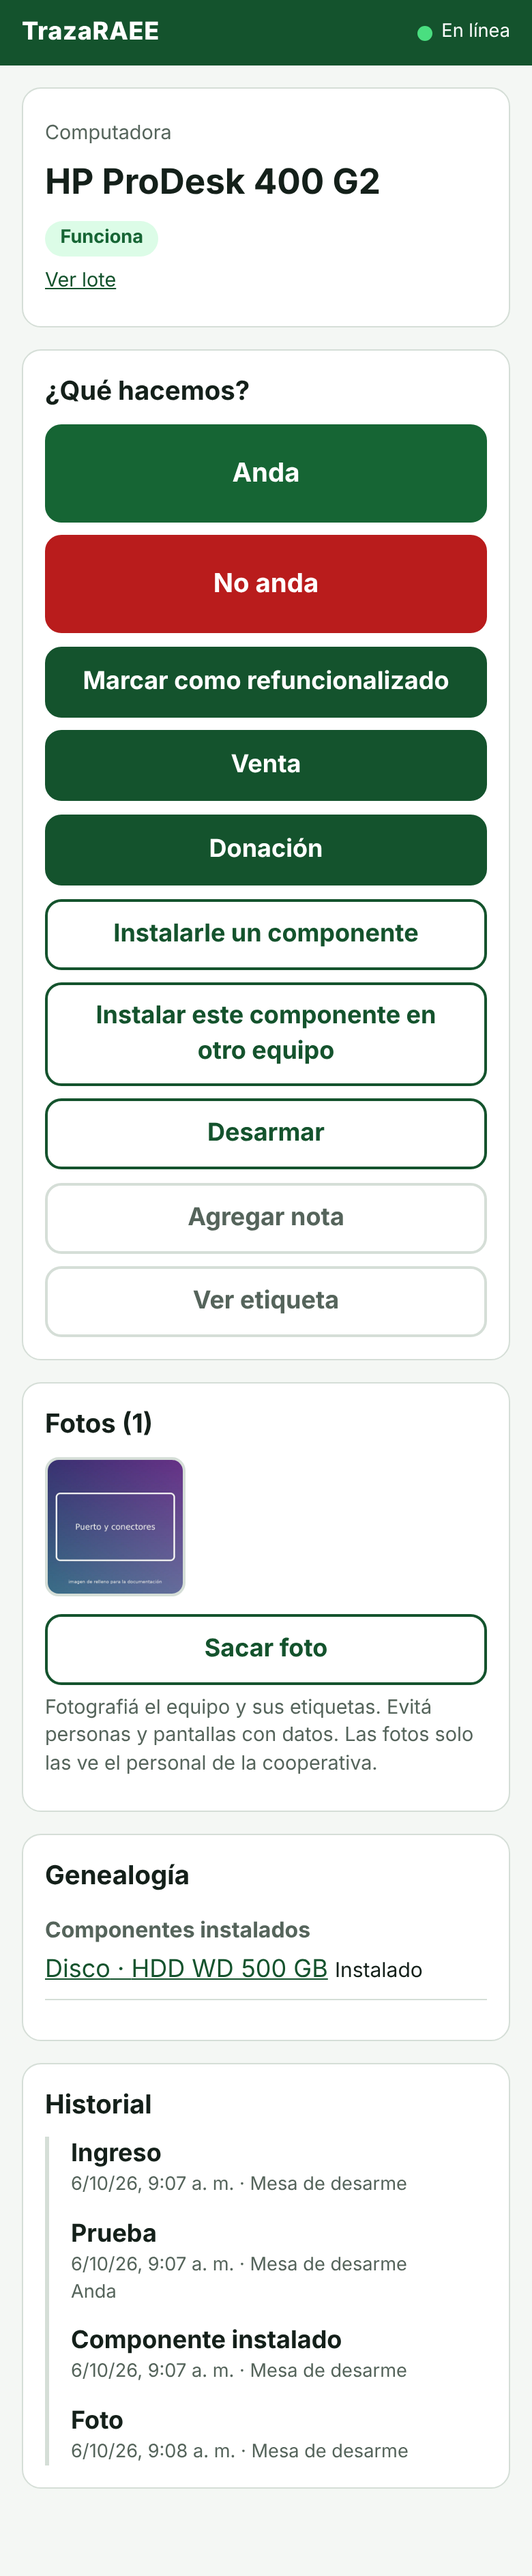
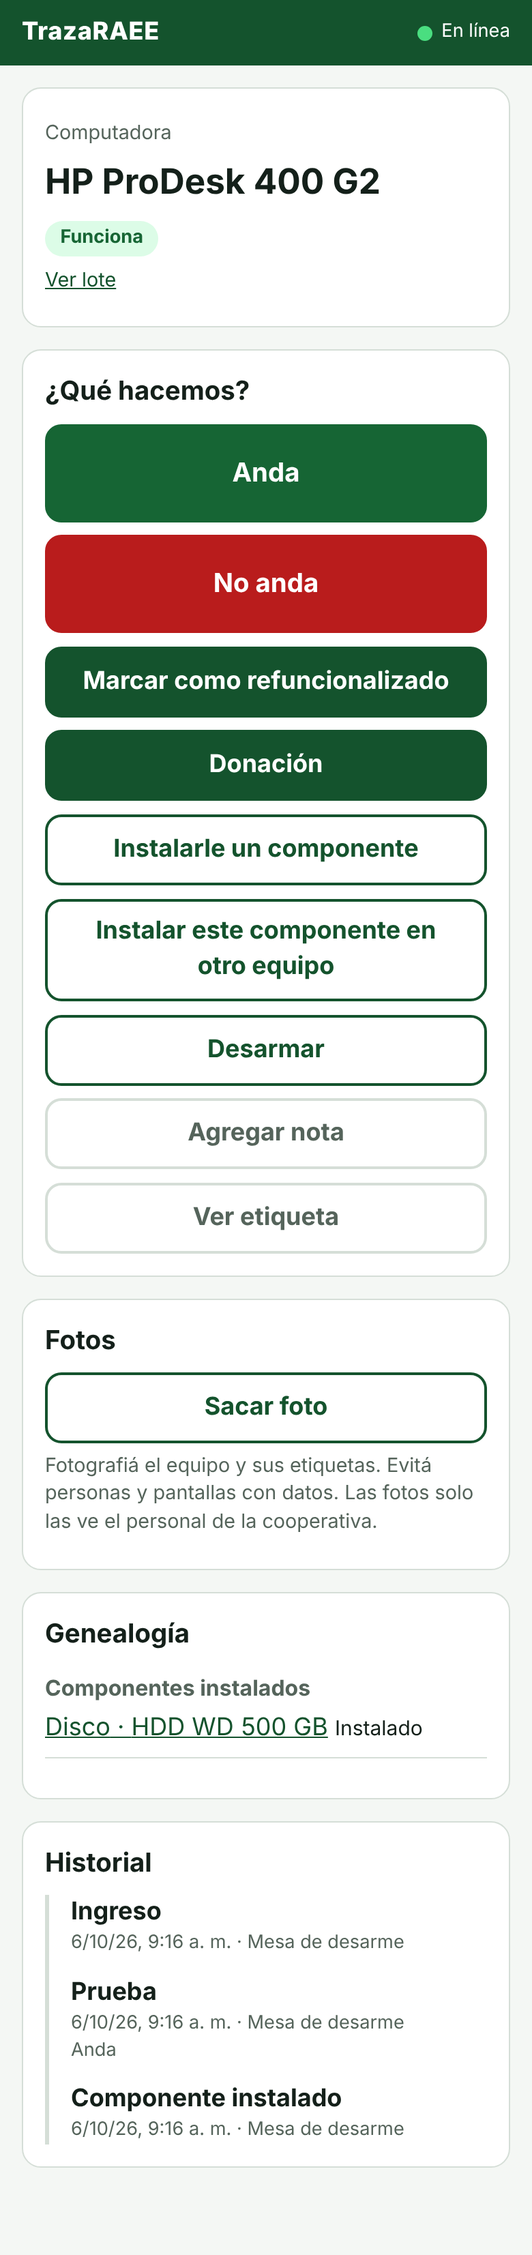
Proyecto sin fines de lucro: se elimina la venta, queda solo donación
- App: sin botón, estado ni etiquetas de venta; textos y tests ajustados
- Capturas regeneradas y README aclara que es para donar a escuelas e instituciones

Claude-Session: https://claude.ai/code/session_017z6W3N4wZKdeLu4RaWpqoK

diff --git a/src/screens/AssetScreen.tsx b/src/screens/AssetScreen.tsx
@@ -12,7 +12,7 @@ import { EVENT_LABEL, formatDate, KINDS, KIND_LABEL, STATUS_LABEL } from "../lab
 import { sendOrQueue } from "../send";
 import type { ApiEvent, Asset, AssetRef, EventType, Genealogy, Kind } from "../types";
 
-type Panel = "borrado" | "venta" | "donacion" | "desarme" | "instalarEn" | "recibir" | "nota" | "etiqueta";
+type Panel = "borrado" | "donacion" | "desarme" | "instalarEn" | "recibir" | "nota" | "etiqueta";
 
 interface Row {
   public_id: string;
@@ -265,11 +265,6 @@ export function AssetScreen() {
               Marcar como refuncionalizado
             </button>
           )}
-          {av.venta && (
-            <button className="btn" onClick={() => toggle("venta")}>
-              Venta
-            </button>
-          )}
           {av.donacion && (
             <button className="btn" onClick={() => toggle("donacion")}>
               Donación
@@ -304,14 +299,13 @@ export function AssetScreen() {
         </div>
         {av.bloqueadoPorBorrado && (
           <p className="notice">
-            Este equipo tiene almacenamiento: antes de refuncionalizarlo, venderlo, donarlo o instalarlo hay que registrar un borrado de datos
+            Este equipo tiene almacenamiento: antes de refuncionalizarlo, donarlo o instalarlo hay que registrar un borrado de datos
             exitoso.
           </p>
         )}
       </section>
 
       {panel === "borrado" && <WipeForm busy={busy} onSubmit={(p) => sendEvent("borrado", p, "Borrado de datos")} />}
-      {panel === "venta" && <RecipientForm title="Venta" busy={busy} onSubmit={(d) => sendEvent("venta", { destinatario: d }, "Venta")} />}
       {panel === "donacion" && (
         <RecipientForm title="Donación" busy={busy} onSubmit={(d) => sendEvent("donacion", { destinatario: d }, "Donación")} />
       )}
@@ -366,7 +360,7 @@ function Detail({ type, payload }: { type: string; payload: Record<string, unkno
     parts.push(String(payload.method ?? ""));
     parts.push(payload.result === "ok" ? "exitoso" : "falló");
   }
-  if ((type === "venta" || type === "donacion") && payload.destinatario) parts.push(`a ${String(payload.destinatario)}`);
+  if (type === "donacion" && payload.destinatario) parts.push(`a ${String(payload.destinatario)}`);
   if (type === "nota" && payload.text) parts.push(String(payload.text));
   const text = parts.filter(Boolean).join(" · ");
   return text ? <span className="detail">{text}</span> : null;
@@ -449,7 +443,7 @@ function RecipientForm({ title, busy, onSubmit }: { title: string; busy: boolean
   return (
     <section className="card">
       <h2>{title}</h2>
-      <Field label={title === "Venta" ? "Comprador" : "Institución o persona que recibe"}>
+      <Field label="Institución o persona que recibe">
         <input value={who} onChange={(e) => setWho(e.target.value)} />
       </Field>
       <p className="hint">Este dato lo ve sólo el personal de la cooperativa, no quien escanee el QR.</p>

diff --git a/src/lib.test.ts b/src/lib.test.ts
@@ -60,25 +60,25 @@ describe("availability (espejo de las reglas del backend)", () => {
   it("un equipo recién ingresado sólo se puede probar", () => {
     const a = availability(base);
     expect(a.prueba).toBe(true);
-    expect(a.venta).toBe(false);
+    expect(a.donacion).toBe(false);
     expect(a.desarme).toBe(false);
   });
 
-  it("con almacenamiento sin borrar no se puede vender ni instalar", () => {
+  it("con almacenamiento sin borrar no se puede donar ni instalar", () => {
     const a = availability({ ...base, status: "funciona", has_storage: true });
-    expect(a.venta).toBe(false);
+    expect(a.donacion).toBe(false);
     expect(a.instalarEn).toBe(false);
     expect(a.borrado).toBe(true);
     expect(a.bloqueadoPorBorrado).toBe(true);
     const ok = availability({ ...base, status: "funciona", has_storage: true, wiped: true });
-    expect(ok.venta && ok.donacion && ok.instalarEn && ok.refuncionalizacion).toBe(true);
+    expect(ok.donacion && ok.instalarEn && ok.refuncionalizacion).toBe(true);
     expect(ok.bloqueadoPorBorrado).toBe(false);
   });
 
   it("scrap sólo desde 'no funciona' y los estados finales no admiten nada", () => {
     expect(availability({ ...base, status: "falla" }).scrap).toBe(true);
     expect(availability({ ...base, status: "funciona" }).scrap).toBe(false);
-    const done = availability({ ...base, status: "vendido", has_storage: true });
+    const done = availability({ ...base, status: "donado", has_storage: true });
     expect(Object.values({ ...done, bloqueadoPorBorrado: false }).some(Boolean)).toBe(false);
   });
 });

diff --git a/src/actions.ts b/src/actions.ts
@@ -4,13 +4,12 @@ import type { Asset, EventType, Status } from "./types";
 // acciones válidas y para predecir el estado cuando una operación queda en la cola offline.
 // La fuente de verdad es el servidor: si discrepan, el servidor rechaza y la cola lo informa.
 
-const TERMINAL: ReadonlySet<Status> = new Set(["vendido", "donado", "scrap", "desarmado", "instalado"]);
+const TERMINAL: ReadonlySet<Status> = new Set(["donado", "scrap", "desarmado", "instalado"]);
 
 export interface Availability {
   prueba: boolean;
   borrado: boolean;
   refuncionalizacion: boolean;
-  venta: boolean;
   donacion: boolean;
   desarme: boolean;
   scrap: boolean;
@@ -31,7 +30,6 @@ export function availability(a: Asset): Availability {
     prueba: ["ingresado", "funciona", "falla"].includes(a.status),
     borrado: !terminal && a.has_storage,
     refuncionalizacion: works && wipeOk,
-    venta: (works || refurb) && wipeOk,
     donacion: (works || refurb) && wipeOk,
     desarme: a.status === "funciona" || a.status === "falla",
     scrap: a.status === "falla",
@@ -57,9 +55,6 @@ export function predictStatus(
       break;
     case "refuncionalizacion":
       status = "refuncionalizado";
-      break;
-    case "venta":
-      status = "vendido";
       break;
     case "donacion":
       status = "donado";

diff --git a/src/queue.integration.test.ts b/src/queue.integration.test.ts
@@ -93,12 +93,12 @@ run("cola offline contra la API real", () => {
     await request("POST", `/assets/${pc}/events`, { type: "prueba", payload: { result: "ok" } });
 
     setOnline(false);
-    // Venta sin borrado de datos: el servidor la va a rechazar...
+    // Donación sin borrado de datos: el servidor la va a rechazar...
     await sendOrQueue({
       method: "POST",
       path: `/assets/${pc}/events`,
-      body: { type: "venta", payload: { destinatario: "X" }, client_id: newClientId() },
-      description: "Venta sin borrado",
+      body: { type: "donacion", payload: { destinatario: "X" }, client_id: newClientId() },
+      description: "Donación sin borrado",
     });
     // ...pero esta nota, que viene después, tiene que llegar igual.
     await sendOrQueue({

diff --git a/src/screens/Settings.tsx b/src/screens/Settings.tsx
@@ -92,7 +92,7 @@ export function Settings() {
         <section className="card warn">
           <h2>Rechazadas por el servidor ({failed.length})</h2>
           <p className="hint">
-            El servidor no aceptó estas operaciones (por ejemplo, vender un equipo sin borrado de datos). Revisalas: se
+            El servidor no aceptó estas operaciones (por ejemplo, donar un equipo sin borrado de datos). Revisalas: se
             pueden reintentar o descartar.
           </p>
           <ul className="list">

diff --git a/src/labels.ts b/src/labels.ts
@@ -5,7 +5,6 @@ export const STATUS_LABEL: Record<Status, string> = {
   funciona: "Funciona",
   falla: "No funciona",
   refuncionalizado: "Refuncionalizado",
-  vendido: "Vendido",
   donado: "Donado",
   scrap: "Scrap",
   desarmado: "Desarmado",
@@ -43,7 +42,6 @@ export const EVENT_LABEL: Record<string, string> = {
   prueba: "Prueba",
   borrado: "Borrado de datos",
   refuncionalizacion: "Refuncionalización",
-  venta: "Venta",
   donacion: "Donación",
   scrap: "Enviado a scrap",
   desarme: "Desarme",

diff --git a/src/screens/Home.tsx b/src/screens/Home.tsx
@@ -21,7 +21,7 @@ export function Home() {
         </Link>
         <Link className="tile" to="/equipo">
           <strong>Equipo</strong>
-          <span>Escanear: probar, borrar, desarmar, vender, donar</span>
+          <span>Escanear: probar, borrar, desarmar, donar</span>
         </Link>
         <Link className="tile" to="/lote">
           <strong>Lote y balance</strong>

diff --git a/src/screens/LotScreen.tsx b/src/screens/LotScreen.tsx
@@ -135,7 +135,7 @@ export function LotScreen() {
                 <td>{kg(balance.stock_kg)}</td>
               </tr>
               <tr>
-                <td>Reutilizado (venta, donación, instalado)</td>
+                <td>Reutilizado (donado o instalado)</td>
                 <td>{kg(balance.reuse_kg)}</td>
               </tr>
               <tr>

diff --git a/src/types.ts b/src/types.ts
@@ -4,7 +4,6 @@ export type Status =
   | "funciona"
   | "falla"
   | "refuncionalizado"
-  | "vendido"
   | "donado"
   | "scrap"
   | "desarmado"
@@ -24,7 +23,6 @@ export type EventType =
   | "prueba"
   | "borrado"
   | "refuncionalizacion"
-  | "venta"
   | "donacion"
   | "scrap"
   | "nota";

diff --git a/src/styles.css b/src/styles.css
@@ -311,8 +311,7 @@ select {
 .chip.good,
 .chip.status-funciona,
 .chip.status-refuncionalizado,
-.chip.status-donado,
-.chip.status-vendido {
+.chip.status-donado {
   background: var(--good-bg);
   color: var(--good);
 }

diff --git a/README.md b/README.md
@@ -1,8 +1,10 @@
 # TrazaRAEE App
 
-PWA para usar en planta (celular o tablet) en una cooperativa de reciclaje informático: recibir lotes, etiquetar equipos con QR, registrar pruebas, borrado de datos, desarme, ventas, donaciones y salidas de scrap. Funciona sin conexión y sincroniza sola cuando vuelve la señal. Repo hermano: `trazaraee-api`.
+PWA para usar en planta (celular o tablet) en una cooperativa de reciclaje informático: recibir lotes, etiquetar equipos con QR, registrar pruebas, borrado de datos, desarme, donaciones y salidas de scrap. Funciona sin conexión y sincroniza sola cuando vuelve la señal. Repo hermano: `trazaraee-api`.
 
-> **Estado: prototipo.** Las pantallas siguen un flujo inferido de información pública sobre cooperativas de este tipo (ingreso → prueba → desarme/borrado → venta, donación o scrap). **No fue probado en un galpón real ni con usuarios.** La interfaz se recorrió de punta a punta en un Chromium con formato de celular contra la API real (ver Capturas), pero no en dispositivos reales. Lo primero que hay que hacer con esto es llevarlo a una planta y mirar cómo se trabaja de verdad.
+> **Sin fines de lucro.** Está pensada para que una cooperativa recupere equipos y los **done a escuelas y otras instituciones**, y para dar cuenta de a dónde fue cada cosa. No hay circuito de venta ni de compradores.
+>
+> **Estado: prototipo.** Las pantallas siguen un flujo inferido de información pública sobre cooperativas de este tipo (ingreso → prueba → desarme/borrado → donación o scrap). **No fue probado en un galpón real ni con usuarios.** La interfaz se recorrió de punta a punta en un Chromium con formato de celular contra la API real (ver Capturas), pero no en dispositivos reales. Lo primero que hay que hacer con esto es llevarlo a una planta y mirar cómo se trabaja de verdad.
 
 ## Capturas
 
@@ -17,7 +19,7 @@ Tomadas en Chromium con viewport de celular (390×844) contra la API real, con *
     <td align="center" width="33%"><img src="docs/screenshots/03-equipo.png" alt="Equipo con genealogía e historial"><br><sub>Equipo: acciones válidas, genealogía e historial</sub></td>
   </tr>
   <tr>
-    <td align="center"><img src="docs/screenshots/04-borrado-pendiente.png" alt="Equipo con borrado de datos pendiente"><br><sub>Venta, donación y reuso bloqueados hasta registrar el borrado de datos</sub></td>
+    <td align="center"><img src="docs/screenshots/04-borrado-pendiente.png" alt="Equipo con borrado de datos pendiente"><br><sub>Donación y reuso bloqueados hasta registrar el borrado de datos</sub></td>
     <td align="center"><img src="docs/screenshots/05-desarme.png" alt="Formulario de desarme"><br><sub>Desarme: cada componente rescatado recibe su propio QR</sub></td>
     <td align="center"><img src="docs/screenshots/06-desarme-etiquetas.png" alt="Etiquetas de los componentes"><br><sub>Etiquetas de los componentes y su vínculo con el equipo de origen</sub></td>
   </tr>
@@ -54,7 +56,7 @@ Tomadas en Chromium con viewport de celular (390×844) contra la API real, con *
 | Ruta | Para qué |
 |---|---|
 | `/ingreso` | Registrar un lote (generador, peso) y etiquetar equipos; imprime etiquetas |
-| `/equipo` → `/equipo/:id` | Escanear un equipo: sólo muestra las acciones válidas según su estado (prueba, borrado, refuncionalizar, venta, donación, desarme, instalar componente, scrap) |
+| `/equipo` → `/equipo/:id` | Escanear un equipo: sólo muestra las acciones válidas según su estado (prueba, borrado, refuncionalizar, donación, desarme, instalar componente, scrap) |
 | `/lote` → `/lote/:id` | Registrar salidas de material por fracción y ver el balance de masas |
 | `/ajustes` | Servidor, clave de la estación, operaciones pendientes y rechazadas |
 | `/a/:id`, `/l/:id` | **Vista pública** que abre quien escanea el QR (sin serial, sin destinatarios, sin personas) |
@@ -62,7 +64,7 @@ Tomadas en Chromium con viewport de celular (390×844) contra la API real, con *
 ## Decisiones de diseño
 
 - **Offline primero.** Los IDs y un `client_id` por operación se generan en el dispositivo. Las escrituras que no llegan al servidor van a una cola en IndexedDB y se reenvían en orden; reintentar nunca duplica (el backend es idempotente por `client_id` / `public_id`). Las etiquetas QR se generan en el dispositivo, así que se pueden imprimir sin conexión.
-- **Operaciones rechazadas no se pierden en silencio.** Si el servidor rechaza algo que se hizo offline (por ejemplo vender un equipo sin borrado de datos), va a "rechazadas" en Ajustes para reintentar o descartar, y no frena al resto de la cola.
+- **Operaciones rechazadas no se pierden en silencio.** Si el servidor rechaza algo que se hizo offline (por ejemplo donar un equipo sin borrado de datos), va a "rechazadas" en Ajustes para reintentar o descartar, y no frena al resto de la cola.
 - **Estado anticipado sin conexión.** Mientras una operación está en cola, la app anticipa el nuevo estado con una copia de la máquina de estados (`src/actions.ts`, espejo de `app/rules.py` del backend). La fuente de verdad es siempre el servidor.
 - **Estaciones, no personas.** La clave identifica un puesto de trabajo (mesa de desarme, banco de pruebas). La app no pide ni muestra quién hizo cada paso.
 - **Hecha para el galpón:** botones grandes, pocos pasos por pantalla, escaneo antes que tipeo, contraste alto, modo oscuro automático.
